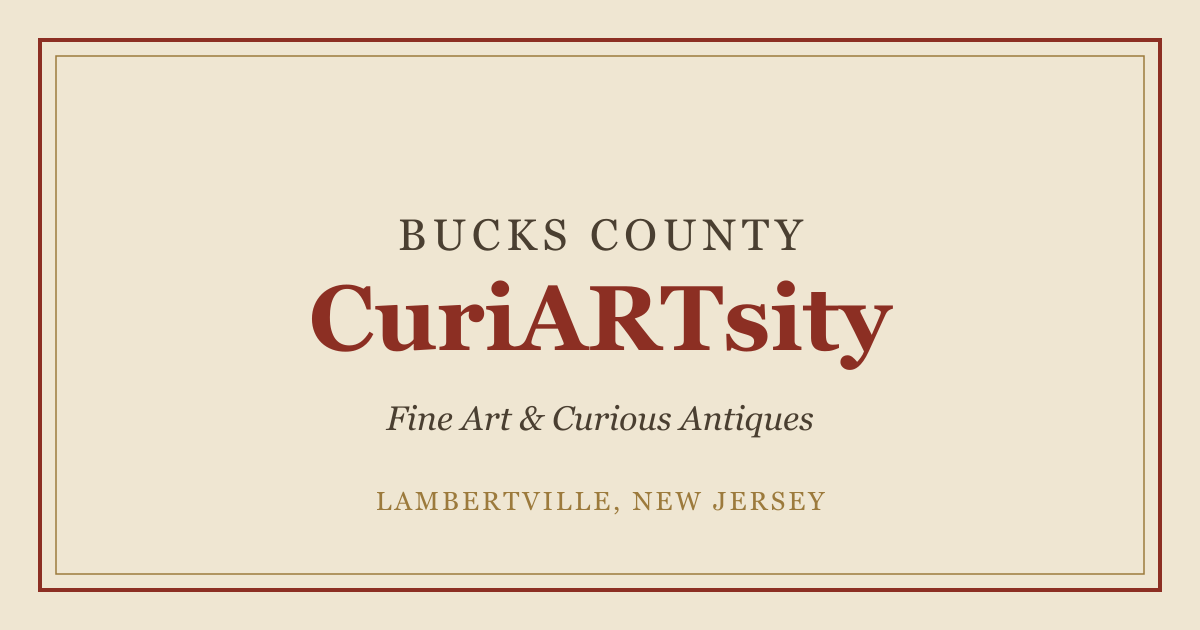
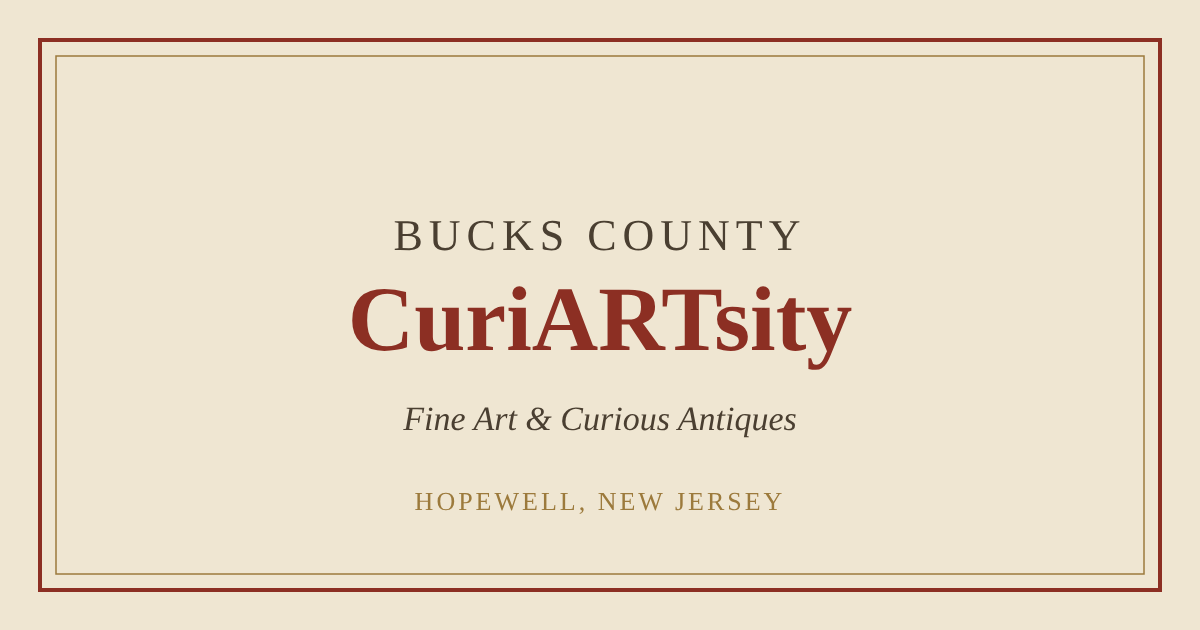
Move to Umbrella Antiques & Modern in Hopewell; refresh copy (#31)
* Move my space from Darberry's to Umbrella Antiques & Modern in Hopewell

Claude-Session: https://claude.ai/code/session_013GT2WktWwVjvZKcE91W4aB

* Reword in-person copy: favorite pieces at Umbrella, no booth

Claude-Session: https://claude.ai/code/session_013GT2WktWwVjvZKcE91W4aB

* Rewrite About me paragraph and drop Darberry's

Claude-Session: https://claude.ai/code/session_013GT2WktWwVjvZKcE91W4aB

---------

diff --git a/src/sections/about.md b/src/sections/about.md
@@ -17,4 +17,4 @@ We all contain multitudes. Your space should, too.
 
 <img src="/images/trish-headshot.jpg" alt="Trish Sammer" class="headshot">
 
-I'm Trish Sammer, a lifelong writer, seeker, and genuine oddball. I've made my living as a journalist, writer, and editor for the past buncha years. I started accidentally collecting art in 2021. After being repeatedly told that I had "an eye," I started reselling art, antiques, and old books online in 2024. I opened my first vendor space in April 2026 at Darberry's Antiques in Lambertville, NJ.
+I'm Trish Sammer, a lifelong writer, seeker, and collector of the uncommon. I've spent the past few decades making my living as a journalist and editor. In 2021, I went looking for one painting and came home with a habit. Enough people told me I had "an eye" that I eventually started reselling my found treasures, first online and now in person at Umbrella Antiques & Modern in Hopewell, NJ.

diff --git a/src/sections/hero.md b/src/sections/hero.md
@@ -8,4 +8,4 @@ cta2_text: "Shop online"
 cta2_href_chairish: "https://www.chairish.com/shop/buckscountycuriartsity"
 cta2_href_etsy: "https://www.etsy.com/shop/BucksCtyCuriARTsity"
 ---
-Original art, high-quality prints, mid-century furniture, rare and vintage books, and curious objects — at price points for every budget. Shop at my vendor space in Lambertville, NJ or online.
+Original art, prints, furniture, books, and curious objects. Find some of my favorites at Umbrella Antiques & Modern in Hopewell, NJ, or shop online.
